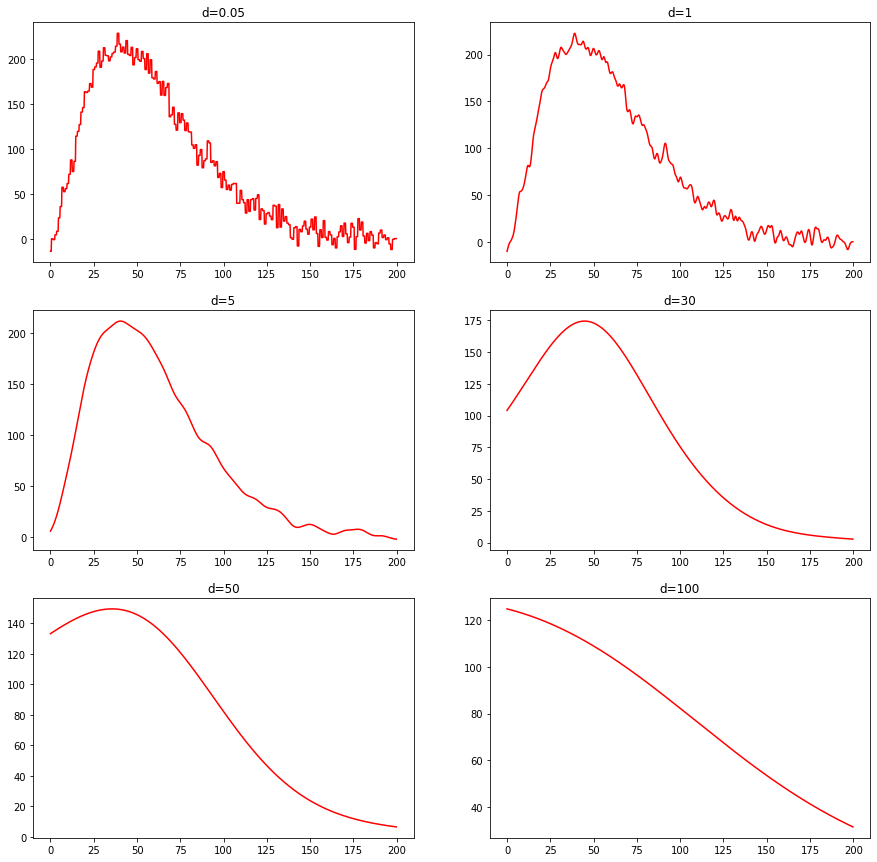
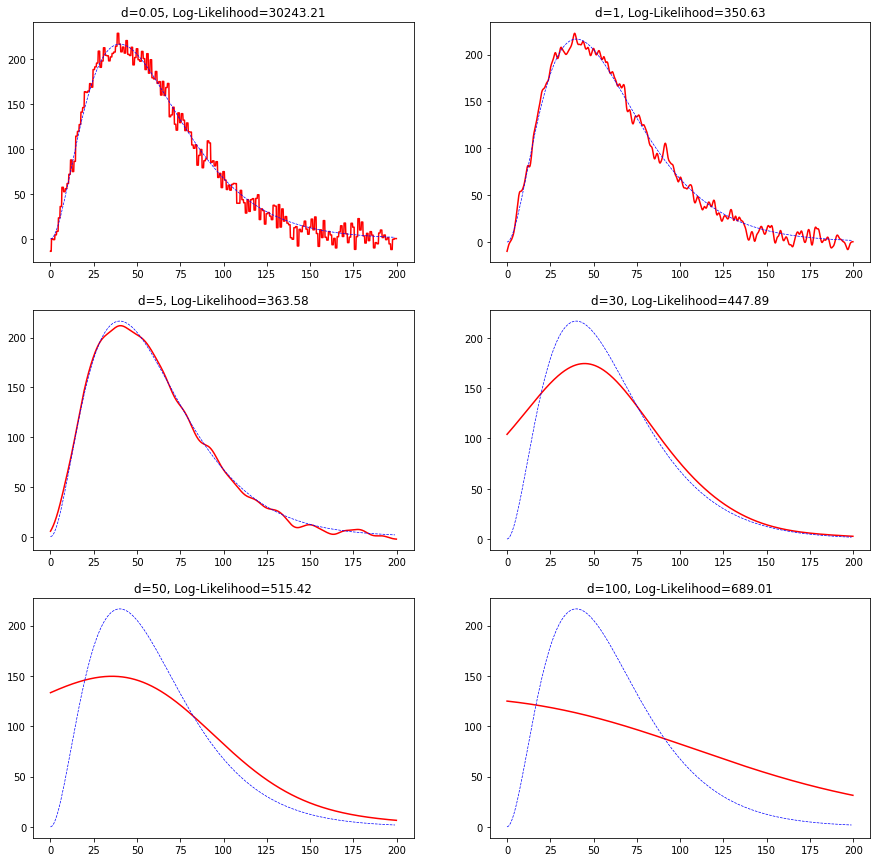
kernel density

diff --git a/_posts/2021-09-29-kernels.md b/_posts/2021-09-29-kernels.md
@@ -14,44 +14,195 @@ A kernel $K(x,x')$ is a function that obeys the property
 
 $$K(x,x')=\langle\Phi(x)\cdot\Phi(x')\rangle$$
 
-where $\langle\cdot\rangle$ denotes inner product in some vector space $\mathbb{V}$. Here $\Phi(x)$ is a mapping from $x\in \mathbb{R}^d$ to the vector space $\mathbb{V}$. So for example, any polynomial of $\langle x\cdot x'\rangle$ is a kernel. This is because of the property
+where $\langle\cdot\rangle$ denotes inner product in some vector space $\mathbb{V}$ and $\Phi(x)$ is a mapping from $x\in \mathbb{R}^d$ to $\mathbb{V}$, known as feature map. Examples: 
+
+* Any polynomial function of $\langle x\cdot x'\rangle$ is a kernel. This is because of the property that
 
 $$\begin{equation*}\begin{split}
 &\langle x\cdot x'\rangle^p = \left(\sum_{i=1}^d x_i x'_i\right)^p =\sum_k C(k) x_i^k {x'}_i^k\\
 &=(C(1)^{1/2}x_1,C(2)^{1/2}x_1^2,\ldots, C(1)^{1/2}x_2,\ldots)^{T}(C(1)^{1/2}{x'}_1,C(2)^{1/2}{x'}_1^2,\ldots,C(1)^{1/2} {x'}_2,\ldots)
 \end{split}\end{equation*}$$
 
-Using this property we can also show that the gaussian function is a kernel:
+* Using this, we can also show that the gaussian function is a kernel:
 
-$$\exp{\left(-\gamma |x-x'|^2\right)}=\exp{\left(-\gamma x^2-\gamma {x'}^2-2\gamma \langle x\cdot x'\rangle\right)}=\exp{\left(-\gamma x^2-\gamma {x'}^2\right)} \sum_{n=1}^{\infty}\frac{(-2\langle x\cdot x'\rangle)^n}{n!}$$
+$$\begin{equation*}\begin{split}&\exp{\left(-\gamma |x-x'|^2\right)}=\exp{\left(-\gamma x^2-\gamma {x'}^2-2\gamma \langle x\cdot x'\rangle\right)}=\\
+&=\exp{\left(-\gamma x^2-\gamma {x'}^2\right)} \sum_{n=1}^{\infty}\frac{(-2\langle x\cdot x'\rangle)^n}{n!}\end{split}\end{equation*}$$
 
 ### Regression
 
-In the KNN algorithm we take the K nearest neighbors of point $x$ and average. That is:
+In the KNN algorithm we take the K nearest neighbors of point $x$ and average their values. That is,
 
 $$\hat{y}|_x=\frac{1}{K}\sum_{i\in \text{K-neighbors(x)}} y_i|_x$$
 
-To put it differently, we consider probabilities $p(y_i|x)=\frac{1}{K}$ and attach them to the neighbors of point $x$. 
-The above average is simply
+We can put it differently by considering probabilities $p(y_i|x)=\frac{1}{K}$ and attach them to the $K$ neighbors of point $x$. 
+Then the above average becomes
 
 $$\hat{y}|_x=E(y|x)$$
 
-But rather than giving equal weights to the neighbors, we can give weights that decay with distance. This allows us to include contributions from very far without introducing additional bias. For example, using the gaussian function:
+Rather than giving equal weights to the neighbors, we can give weights that decay with distance. This allows us to include contributions from very far without introducing additional bias. For example, using the gaussian function kernel we can write
 
-$$p(y_i,x)=\exp{\left(-\frac{|x-x_i|^2}{d^2}\right)}$$
+$$p(y_i,x)=\frac{1}{N}\exp{\left(-\frac{|x-x_i|^2}{d^2}\right)}$$
 
-and 
+where $N$ is the number of datapoints in the training set and $d$ is the Kernel width. It follows that 
 
 $$p(y_i|x)=\frac{p(y_i,x)}{\sum_i p(y_i,x)}$$
 
-Here $d$ is the Kernel width. Then the average becomes
+and
 
 $$E(y|x)=\frac{\sum_i y_ip(y_i,x)}{\sum_i p(y_i,x)}$$
 
-As an example, we generate artificial data:
+Note that for $d\rightarrow \infty$ all the data-points contribute equally and $p(y_i|x)\rightarrow\frac{1}{N}$. 
+This is the limiting case of KNN algorithm when we include all the neighbors. We have seen that when the number of neighbors is large variance decreases but bias increases. However, for $d$ small, only the closest neighbors contribute. In this case we expecte variance to increase, but bias to be small.
+
+As an example, we generate an artificial training dataset for the line:
+
+$$f(x)=x^2 e^{-0.05x}$$
+
+and fit a gaussian kernel.
+
+```python
+def f(x):
+    y=x*x*np.exp(-0.05*x)
+    return y
+
+xtrain=np.arange(0,200)
+eps=np.random.normal(0,10,200)
+y=f(x)
+ytrain=y+eps
+
+class KernelRg:
+    def __init__(self,d):
+        self.d=d
+        
+    def fit(self,x,y):
+        self.x=x
+        self.y=y
+        
+    def predict(self,x):
+        z=x.reshape(-1,1)
+        mu=self.x.reshape(1,-1)
+        r=self.f(z-mu)
+        r_=r*(self.y.reshape(1,-1))
+        r_=r_.sum(1)
+        N=r.sum(1)
+        return r_/N
+    
+    def prob(self,x):
+        z=x.reshape(-1,1)
+        mu=self.x.reshape(1,-1)
+        r=self.f(z-mu)
+        p=r.sum(1)
+        
+        return p
+    
+    def le(self,x):
+        p=self.prob(x)
+        L=-np.log(p).sum()
+        
+        return L
+        
+    def f(self,x):
+        p=1/np.sqrt(2*np.pi*self.d**2)*np.exp(-(x)*(x)/(self.d**2))
+        
+        return p
+
+K=KernelRg(d=0.1)
+K.fit(xtrain,ytrain)
+
+sample=np.arange(0,200,0.2)
+ysample=K.predict(sample)
+```
+
+We plot a prediction for various widths $d$ including the log-likelihood defined as
+
+$$\text{Log-Likelihood}=-\sum_x \ln(\sum_i p(y_i,x))$$
+
 <div style="text-align: center"><img src="/images/kernel_reg_d.png"  width="100%"></div>
 
-For small $d$ we see a lot of variance in the regression line and for larger values of $d$ the function changes very slowly. In fact, when $d$ is small the contributions from the nearest neighbors contribute more strongly and as such variance increases. But for large $d$ all the data-points start contributing equally which increases bias.
+For small $d$ we see a lot of variance and for larger values of $d$ the function changes very slowly. In fact, when $d$ is small the contributions from the nearest neighbors contribute more strongly and as such variance increases. But for large $d$ all the data-points start contributing equally which increases bias.
 
-### Distributions
 
+### Density Estimation
+
+One way to estimate a density distribution is to build a histogram. In a histogram we partition the feature space in buckets and then count how many data-points fall in those buckets. However, the histogram depends on a partition choice, so it is not unique, and does not provide a smooth, continuous distribution function. 
+
+A way to resolve these issues is by considering the empirical distribution. It can be represented as a sum of Dirac delta functions:
+
+$$f(x)=\frac{1}{N}\sum_{x_i} \delta(x-x_i)$$
+
+where $N$ is the number of datapoints $x_i$. In contrast with the histogram, this distribution is unique and can be used to calculate the probability for any $x$. For example, the probability of finding $x$ in the interval $[a,b]$ is given by
+
+$$\int_a^bf(x)dx=\frac{1}{N}\sum_{x_i} \int_a^b\delta(x-x_i)dx=\frac{\# x_i\in[a,b]}{N}$$
+
+Despite providing an accurate representation of the sample distribution, $f(x)$ is highly singular and cannot be used in practice. Instead we can consider an approximation, which is smooth, by using the identity:
+
+$$\delta(x-x')=\lim_{d\rightarrow 0}\frac{1}{\sqrt{2\pi}d}e^{-(x-x')^2/2d^2}$$
+
+We can approximate the sum of delta functions using a finite $d$, that is,
+
+$$f(x)\simeq \frac{1}{N}\sum_{x_i}\frac{1}{\sqrt{2\pi}d}e^{-(x-x_i)^2/2d^2}$$
+
+which reproduces exactly $f(x)$ in the limit $d\rightarrow 0$. Here $d$, the width, acts as a regulator of the singular behaviour of the Dirac delta function.
+
+As an example, we sample a set of $x_i$ from the distribution:
+
+$$f(x)=\frac{1}{3\sqrt{2\pi 2}}e^{-x^2/4}+\frac{1}{3\sqrt{2\pi 6}}e^{-(x-7)^2/6}+\frac{1}{3\sqrt{2\pi 3}}e^{-(x-12)^2/3}$$
+
+<div style="text-align: center"><img src="/images/kernel_dens_1.png"  width="70%"></div>
+
+Then we fit the training set with a gaussian Kernel:
+
+```python
+class KernelDensity:
+    def __init__(self,d):
+        self.d=d
+    
+    def fit(self,xtrain):
+        self.xtrain=xtrain
+        self.n=xtrain.shape[0]
+        
+    def predict(self,x):
+        z=x.reshape(-1,1)
+        mu=self.xtrain.reshape(1,-1)
+        r=self.f(z-mu).sum(1)
+        
+        return r/self.n
+    
+    def le(self,x):
+        r=self.predict(x)
+        r=-np.log(r).sum()
+        
+        return r
+    
+    def f(self,x):
+        p=1/np.sqrt(2*np.pi*self.d**2)*np.exp(-(x)*(x)/(self.d**2))
+        
+        return p
+
+K=KernelDensity(1)
+K.fit(xtrain)
+```
+
+This is the estimated density for various values of $d$ including the corresponding log-likelihood:
+
+<div style="text-align: center"><img src="/images/kernel_dens_2.png"  width="100%"></div>
+
+### Classification
+
+In classification, we have a set $(x_i,c_i)$ with $c_i=0,1,\ldots$ the labels. We are interested in estimating 
+
+$$P(c|x)$$
+
+from the data. This can be written as 
+
+$$P(c|x)=\frac{P(x|c)P(c)}{\sum_{c'} P(x|c')P(c')}$$
+
+So using the previous results on density estimation, we can calculate
+
+$$P(x|c)$$
+
+for each class using a kernel. The probability $P(c)$ is easily estimated using the maximum-likelihood principle, giving
+
+$$P(c)=\frac{\# (c_i=c)}{N}$$
+
+with $N$ the number of data-points.
